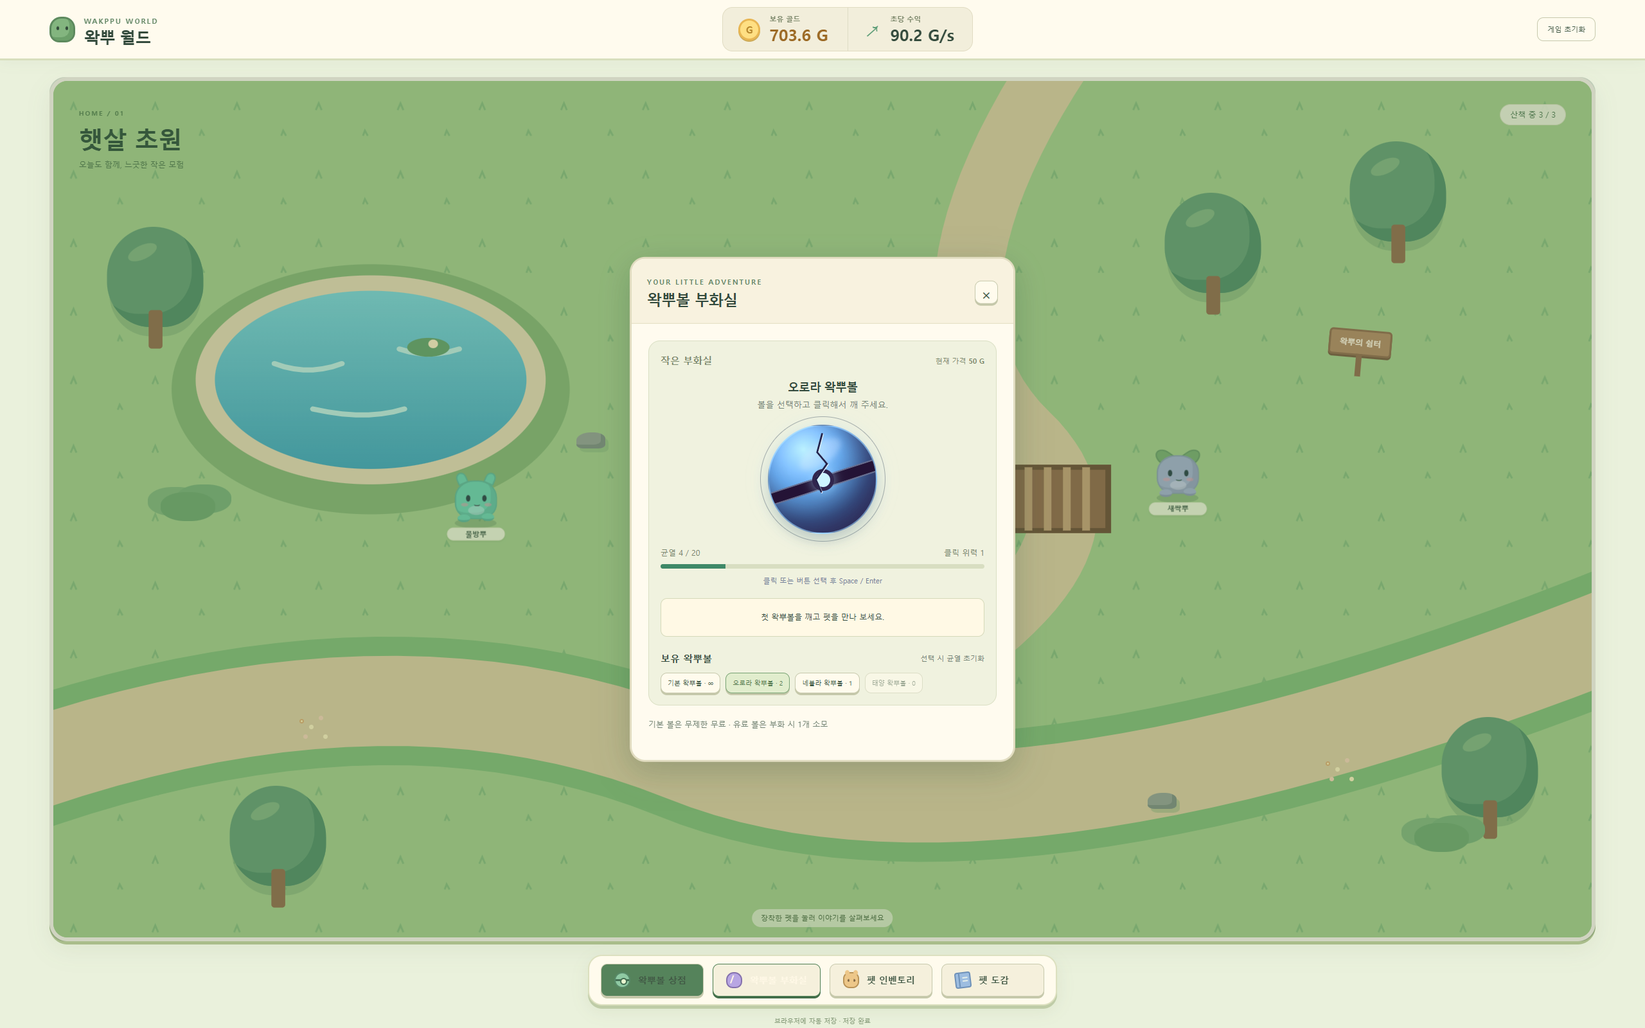
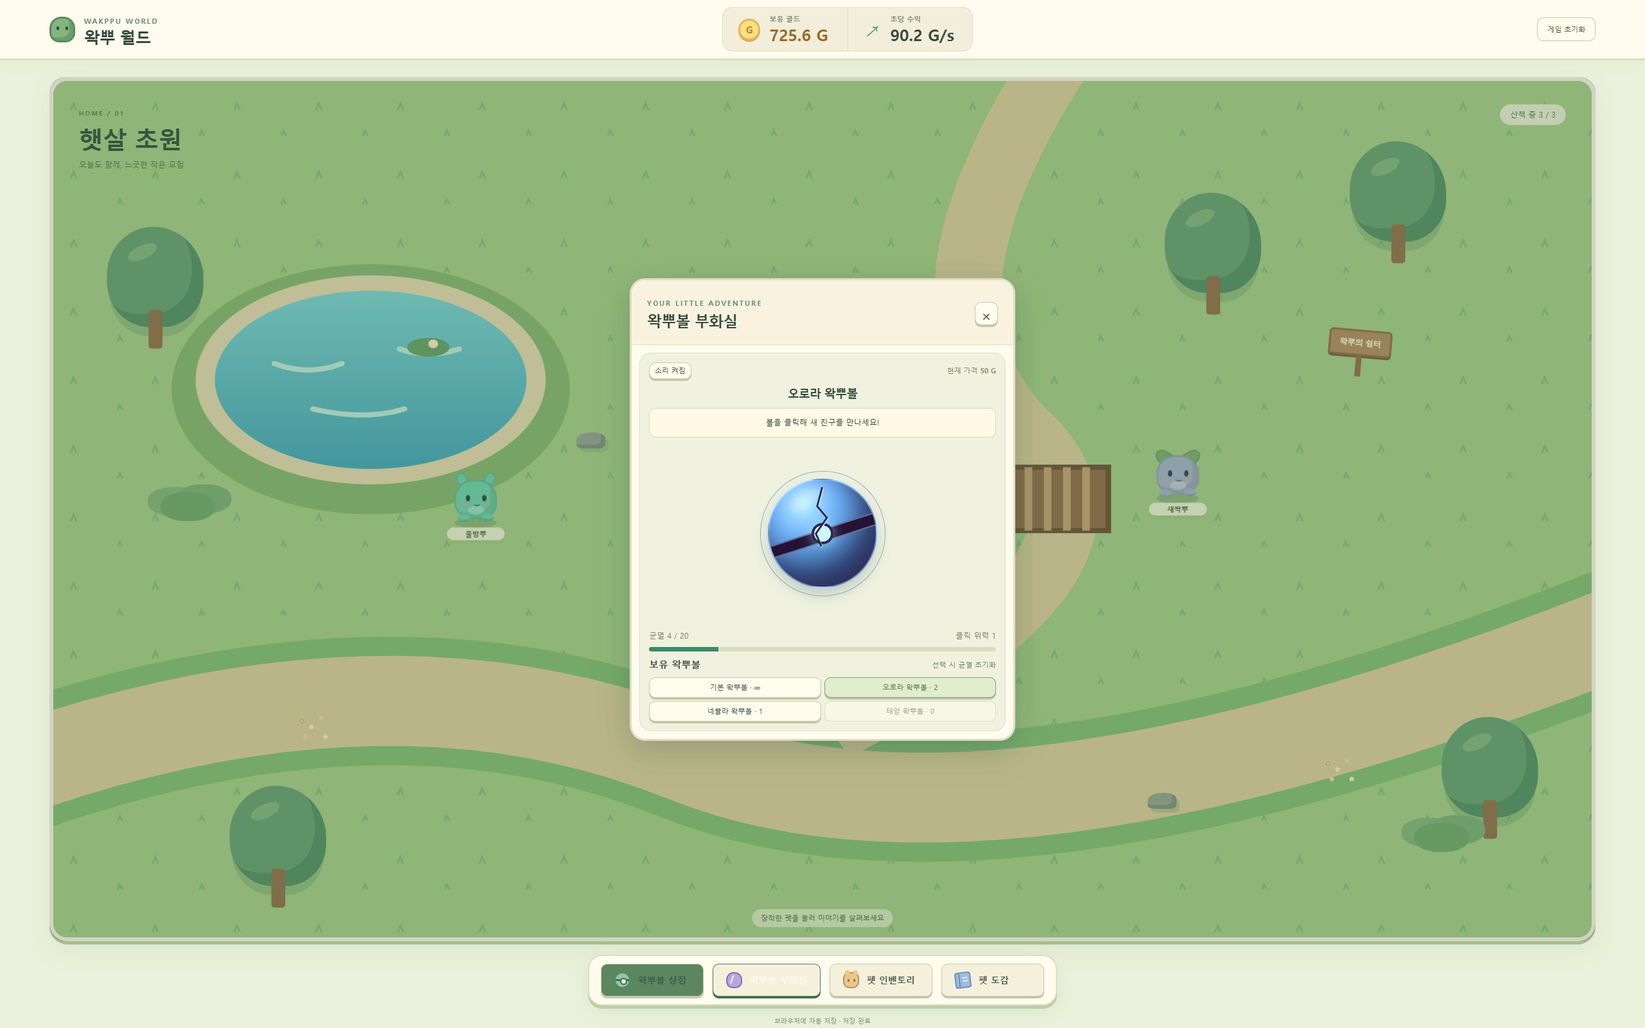
펫 자동 교체·추천 구성·방생, 한 화면 부화실과 효과음 추가

Changed region(s): [[0.375, 0.375, 0.625, 0.75], [0.375, 0.25, 0.625, 0.375], [0.5625, 0.3438, 0.5938, 0.375]]

diff --git a/game.js b/game.js
@@ -25,7 +25,7 @@ const PETS = [
 ];
 const $ = id => document.getElementById(id);
 const format = n => new Intl.NumberFormat("ko-KR", { maximumFractionDigits: 1, notation: n >= 1000000 ? "compact" : "standard" }).format(n);
-const defaults = () => ({ version: 1, gold: 0, pets: [], equipped: [], discovered: [], stock: [0, 0, 0, 0], selected: 0, cracks: 0 });
+const defaults = () => ({ version: 1, gold: 0, pets: [], equipped: [], discovered: [], stock: [0, 0, 0, 0], selected: 0, cracks: 0, soundEnabled: true });
 const integer = (v, max) => Number.isInteger(v) && v >= 0 && v <= max;
 let storageOK = true;
 
@@ -37,6 +37,7 @@ function load() {
     if (!raw) return clean;
     const data = JSON.parse(raw);
     if (!data || data.version !== 1) return clean;
+    if (typeof data.soundEnabled === "boolean") clean.soundEnabled = data.soundEnabled;
     if (Number.isFinite(data.gold) && data.gold >= 0) clean.gold = Math.min(data.gold, 1e15);
     if (Array.isArray(data.pets)) clean.pets = data.pets.filter(p => integer(p, PETS.length - 1)).slice(0, 10000);
     if (Array.isArray(data.equipped)) clean.equipped = [...new Set(data.equipped)].filter(i => integer(i, clean.pets.length - 1)).slice(0, SLOT_LIMIT);
@@ -48,6 +49,7 @@ function load() {
     return clean;
   } catch { return clean; }
 }
+const sounds = new GameSounds();
 let state = load();
 let hatching = false;
 let hatchTimer;
@@ -57,6 +59,13 @@ let lastTick = performance.now();
 function equippedPets() { return state.equipped.map(index => PETS[state.pets[index]]); }
 function income() { return equippedPets().reduce((sum, p) => sum + p.rate + p.bonus, 0); }
 function clickPower() { return 1 + equippedPets().reduce((sum, p) => sum + p.power, 0); }
+// 장착을 바꾸기 전에 이전 구성으로 벌었던 골드를 먼저 정산합니다.
+function accrueGold() {
+  const now = performance.now();
+  const elapsed = Math.min(60, Math.max(0, (now - lastTick) / 1000));
+  lastTick = now;
+  state.gold = Math.min(1e15, state.gold + income() * elapsed);
+}
 function save() {
   try { localStorage.setItem(SAVE_KEY, JSON.stringify(state)); storageOK = true; }
   catch { storageOK = false; }
@@ -64,6 +73,8 @@ function save() {
 }
 function message(text) { $("result").textContent = text; }
 function renderStats() {
+  $("sound-toggle").textContent = state.soundEnabled ? "소리 켜짐" : "소리 꺼짐";
+  $("sound-toggle").setAttribute("aria-pressed", String(state.soundEnabled));
   $("gold").textContent = `${format(state.gold)} G`;
   $("shop-gold").textContent = `${format(state.gold)} G`;
   $("income").textContent = `${format(income())} G/s`;
@@ -87,9 +98,10 @@ function petCard(petId, index, codex = false) {
   const p = PETS[petId];
   const known = !codex || state.discovered.includes(petId);
   const equipped = !codex && state.equipped.includes(index);
-  return `<article class="pet-card ${equipped ? "equipped" : ""} ${known ? "" : "unknown"}" style="--rarity:${COLORS[p.rarity]}"><div class="pet-art" aria-hidden="true"></div><span class="rarity">${RARITIES[p.rarity]}</span><h3>${known ? p.name : "???"}</h3><p class="rate">${known ? `${format(p.rate + p.bonus)} G/s` : "미발견"}</p><p>${known ? p.ability : "부화하여 비밀을 발견하세요"}</p>${codex ? "" : `<button data-equip="${index}" ${!equipped && state.equipped.length >= SLOT_LIMIT ? "disabled" : ""}>${equipped ? "장착 해제" : "장착하기"}</button>`}</article>`;
+  return `<article class="pet-card ${equipped ? "equipped" : ""} ${known ? "" : "unknown"}" style="--rarity:${COLORS[p.rarity]}"><div class="pet-art" aria-hidden="true"></div><span class="rarity">${RARITIES[p.rarity]}</span><h3>${known ? p.name : "???"}</h3><p class="rate">${known ? `${format(p.rate + p.bonus)} G/s` : "미발견"}</p><p>${known ? p.ability : "부화하여 비밀을 발견하세요"}</p>${codex ? "" : `<button data-equip="${index}" >${equipped ? "장착 해제" : state.equipped.length >= SLOT_LIMIT ? "교체 장착" : "장착하기"}</button><button data-release="${index}" class="release">방생 · +${format(p.rate + p.bonus)} G</button>`}</article>`;
 }
 function renderPets() {
+  $("recommend").disabled = state.pets.length === 0;
   $("slots").textContent = `장착 ${state.equipped.length} / ${SLOT_LIMIT}`;
   $("pet-count").textContent = `${state.pets.length}마리`;
   $("inventory").innerHTML = state.pets.length ? state.pets.map((id, i) => petCard(id, i)).join("") : '<p class="empty">아직 펫이 없어요. 첫 왁뿌볼을 깨 보세요!</p>';
@@ -114,6 +126,7 @@ function rollPet(tier) {
 function hatch() {
   // 잠금을 먼저 걸고 보상과 소모를 한 번에 저장합니다. 애니메이션은 화면 효과입니다.
   hatching = true;
+  if (state.soundEnabled) sounds.play("break");
   const petId = rollPet(state.selected);
   const p = PETS[petId];
   if (state.selected > 0) state.stock[state.selected]--;
@@ -138,6 +151,7 @@ function hatch() {
 }
 $("ball").addEventListener("click", () => {
   if (hatching || state.pets.length >= 10000) { if (!hatching) message("인벤토리 한도 10,000마리에 도달했어요."); return; }
+  if (state.soundEnabled) sounds.play("click");
   state.cracks = Math.min(BALLS[state.selected].clicks, state.cracks + clickPower());
   $("ball").classList.remove("hit");
   void $("ball").offsetWidth; // 같은 애니메이션을 다시 시작합니다.
@@ -163,14 +177,42 @@ $("shop").addEventListener("click", e => {
   save(); renderStats(); renderBall(); message(`${BALLS[tier].name} 구매 완료! 보유 왁뿌볼에서 선택하세요.`);
 });
 $("inventory").addEventListener("click", e => {
-  const button = e.target.closest("[data-equip]");
+  const button = e.target.closest("[data-equip], [data-release]");
   if (!button) return;
-  const index = Number(button.dataset.equip);
+  const release = button.hasAttribute("data-release");
+  const index = Number(release ? button.dataset.release : button.dataset.equip);
   if (!integer(index, state.pets.length - 1)) return;
-  if (state.equipped.includes(index)) state.equipped = state.equipped.filter(i => i !== index);
-  else if (state.equipped.length < SLOT_LIMIT) state.equipped.push(index);
-  else return;
+  const pet = PETS[state.pets[index]];
+  if (release && !confirm(`${pet.name}을 방생하고 ${format(pet.rate + pet.bonus)} G를 받을까요? 인벤토리에서 삭제되며 되돌릴 수 없습니다. 도감 기록은 유지됩니다.`)) return;
+  accrueGold();
+  if (release) {
+    state.gold = Math.min(1e15, state.gold + pet.rate + pet.bonus);
+    state.pets.splice(index, 1);
+    // 삭제된 번호 뒤의 펫 번호를 한 칸 당깁니다. 발견 기록은 지우지 않습니다.
+    state.equipped = state.equipped.filter(i => i !== index).map(i => i > index ? i - 1 : i);
+    world.clear(); selectedWorldPet = null; $("pet-info").hidden = true;
+    $("inventory-notice").textContent = `${pet.name} 방생 완료 · +${format(pet.rate + pet.bonus)} G`;
+  } else if (state.equipped.includes(index)) state.equipped = state.equipped.filter(i => i !== index);
+  else {
+    // 배열 마지막이 가장 최근에 장착한 펫입니다. 기존 저장 순서도 그대로 사용합니다.
+    if (state.equipped.length >= SLOT_LIMIT) state.equipped.pop();
+    state.equipped.push(index);
+    $("inventory-notice").textContent = `${pet.name} 장착 완료`;
+  }
   save(); render();
+});
+$("recommend").addEventListener("click", () => {
+  accrueGold();
+  state.equipped = state.pets.map((id, index) => ({ pet: PETS[id], index }))
+    .sort((a, b) => b.pet.rarity - a.pet.rarity || (b.pet.rate + b.pet.bonus) - (a.pet.rate + a.pet.bonus) || a.index - b.index)
+    .slice(0, SLOT_LIMIT).map(item => item.index);
+  $("inventory-notice").textContent = "높은 등급 우선 · 같은 등급은 높은 초당 수익 순으로 장착했어요.";
+  save(); render();
+});
+$("sound-toggle").addEventListener("click", () => {
+  state.soundEnabled = !state.soundEnabled;
+  if (state.soundEnabled) sounds.play("click");
+  save(); renderStats();
 });
 $("reset").addEventListener("click", () => {
   if (!confirm("골드, 펫, 도감, 구매 기록을 모두 초기화할까요? 이 작업은 되돌릴 수 없습니다.")) return;
@@ -180,9 +222,7 @@ $("reset").addEventListener("click", () => {
 });
 // 실제 경과 시간으로 생산합니다. 백그라운드 수익은 틱당 최대 60초이며 오프라인 수익은 없습니다.
 setInterval(() => {
-  const now = performance.now();
-  const elapsed = Math.min(60, Math.max(0, (now - lastTick) / 1000)); lastTick = now;
-  state.gold = Math.min(1e15, state.gold + income() * elapsed);
+  accrueGold();
   renderStats();
 }, 250);
 setInterval(save, 2000);
@@ -196,6 +236,7 @@ let menuTrigger = null;
 function openMenu(id, trigger) {
   if (!menuTitles[id]) return;
   activeMenu = id;
+  $("menu-panel").dataset.page = id;
   menuTrigger = document.querySelector(`.world-nav [data-menu="${id}"]`) || trigger || menuTrigger;
   $("menu-panel").hidden = false;
   $("menu-backdrop").hidden = false;

diff --git a/index.html b/index.html
@@ -1,6 +1,6 @@
 <!DOCTYPE html>
 <html lang="ko">
-<head><meta charset="UTF-8"><meta name="viewport" content="width=device-width, initial-scale=1"><title>왁뿌볼 · 펫 월드</title><link rel="stylesheet" href="style.css"><script src="world.js" defer></script><script src="game.js" defer></script></head>
+<head><meta charset="UTF-8"><meta name="viewport" content="width=device-width, initial-scale=1"><title>왁뿌볼 · 펫 월드</title><link rel="stylesheet" href="style.css"><script src="world.js" defer></script><script src="sound.js" defer></script><script src="game.js" defer></script></head>
 <body class="world-game">
 <header class="world-header"><div class="brand"><span class="brand-mark" aria-hidden="true"></span><div><span class="eyebrow">WAKPPU WORLD</span><h1>왁뿌 월드</h1></div></div><div class="wallet" aria-label="게임 현황"><div><span class="coin" aria-hidden="true">G</span><div><span>보유 골드</span><strong id="gold">0 G</strong></div></div><div><span class="income-icon" aria-hidden="true">↗</span><div><span>초당 수익</span><strong id="income">0 G/s</strong></div></div></div><button id="reset" class="quiet">게임 초기화</button></header>
 <main class="world-layout">
@@ -13,8 +13,8 @@
 <button id="menu-backdrop" class="menu-backdrop" aria-label="메뉴 닫기" tabindex="-1" hidden></button>
 <aside role="dialog" aria-labelledby="menu-title" id="menu-panel" class="menu-panel" aria-label="펫 관리 메뉴" hidden><header class="menu-heading"><div><span class="eyebrow">YOUR LITTLE ADVENTURE</span><h2 id="menu-title">왁뿌볼 상점</h2></div><button id="close-menu" aria-label="메뉴 닫기">×</button></header><div class="menu-content">
 <section id="shop-panel" class="menu-page" hidden><p class="muted">새로운 친구와의 만남을 준비해요.</p><p class="shop-wallet">사용 가능한 골드 <strong id="shop-gold">0 G</strong></p><div id="shop"></div><details><summary>볼별 희귀도 확률 보기</summary><div id="odds"></div></details><p class="shop-note">구매한 볼은 부화실에서 선택해 깨뜨릴 수 있어요.</p><button data-menu="hatch-panel">부화실로 가기</button></section>
-<section id="hatch-panel" class="menu-page" hidden><section class="arena hatch-room"><div class="section-head"><h3>작은 부화실</h3><span>현재 가격 <strong id="price">무료</strong></span></div><h2 id="ball-name">기본 왁뿌볼</h2><p class="muted">볼을 선택하고 클릭해서 깨 주세요.</p><div class="ball-stage"><div class="orbit orbit-one"></div><button id="ball" class="ball" aria-label="왁뿌볼 클릭하여 깨기"><span class="ball-shine"></span><span class="ball-band"></span><span class="ball-core"></span><svg class="cracks" viewBox="0 0 240 240" aria-hidden="true"><path class="crack c1" d="M119 18 108 59 130 85 105 121 117 148"/><path class="crack c2" d="m108 59-34 9-16 27M105 121l-46 9-29 35"/><path class="crack c3" d="m130 85 45-18 33 24M117 148l39 23 17 43"/><path class="crack c4" d="m117 148-28 37 15 42M156 171l48-7 23 21"/></svg></button><div id="burst" class="burst" aria-hidden="true"></div></div><div class="progress-copy"><span id="click-label">균열 0 / 12</span><span id="power">클릭 위력 1</span></div><progress id="progress" value="0" max="12" aria-label="균열 진행도"></progress><p class="hint">클릭 또는 버튼 선택 후 Space / Enter</p><div id="result" class="result" role="status" aria-live="polite">첫 왁뿌볼을 깨고 펫을 만나 보세요.</div><div class="queue-head"><h3>보유 왁뿌볼</h3><span class="muted">선택 시 균열 초기화</span></div><div id="queue" class="queue"></div></section><p class="shop-note">기본 볼은 무제한 무료 · 유료 볼은 부화 시 1개 소모</p></section>
-<section id="inventory-panel" class="menu-page" hidden><div class="section-head"><h3>나의 친구들 <small id="pet-count">0마리</small></h3><span id="slots" class="badge">장착 0 / 3</span></div><p class="muted">최대 3마리를 장착하면 초원에서 산책하며 골드를 벌어요.</p><div id="inventory" class="pet-grid"></div></section>
+<section id="hatch-panel" class="menu-page" hidden><section class="arena hatch-room"><div class="section-head"><button id="sound-toggle" aria-pressed="true">소리 켜짐</button><span>현재 가격 <strong id="price">무료</strong></span></div><h2 id="ball-name">기본 왁뿌볼</h2><div id="result" class="result" role="status" aria-live="polite">볼을 클릭해 새 친구를 만나세요!</div><div class="ball-stage"><div class="orbit orbit-one"></div><button id="ball" class="ball" aria-label="왁뿌볼 클릭하여 깨기"><span class="ball-shine"></span><span class="ball-band"></span><span class="ball-core"></span><svg class="cracks" viewBox="0 0 240 240" aria-hidden="true"><path class="crack c1" d="M119 18 108 59 130 85 105 121 117 148"/><path class="crack c2" d="m108 59-34 9-16 27M105 121l-46 9-29 35"/><path class="crack c3" d="m130 85 45-18 33 24M117 148l39 23 17 43"/><path class="crack c4" d="m117 148-28 37 15 42M156 171l48-7 23 21"/></svg></button><div id="burst" class="burst" aria-hidden="true"></div></div><div class="progress-copy"><span id="click-label">균열 0 / 12</span><span id="power">클릭 위력 1</span></div><progress id="progress" value="0" max="12" aria-label="균열 진행도"></progress><div class="queue-head"><h3>보유 왁뿌볼</h3><span class="muted">선택 시 균열 초기화</span></div><div id="queue" class="queue"></div></section></section>
+<section id="inventory-panel" class="menu-page" hidden><div class="section-head"><h3>나의 친구들 <small id="pet-count">0마리</small></h3><span id="slots" class="badge">장착 0 / 3</span></div><div class="inventory-tools"><button id="recommend">추천 구성</button><p class="muted">높은 등급 우선 · 최대 3마리</p></div><p id="inventory-notice" class="muted" role="status">슬롯이 가득 차면 가장 최근에 장착한 친구를 교체해요.</p><div id="inventory" class="pet-grid"></div></section>
 <section id="codex-panel" class="menu-page" hidden><div class="section-head"><h3>만남의 기록</h3><span id="discovered" class="badge">0 / 10</span></div><p class="muted">한 번 만난 친구는 언제나 도감에 남아요.</p><div id="codex" class="pet-grid codex"></div></section></div></aside></main>
 <nav class="world-nav" aria-label="게임 메뉴"><button data-menu="shop-panel" aria-controls="shop-panel" aria-expanded="false"><span class="nav-icon icon-ball" aria-hidden="true"></span>왁뿌볼 상점</button><button data-menu="hatch-panel" aria-controls="hatch-panel" aria-expanded="false"><span class="nav-icon icon-hatch" aria-hidden="true"></span>왁뿌볼 부화실</button><button data-menu="inventory-panel" aria-controls="inventory-panel" aria-expanded="false"><span class="nav-icon icon-pet" aria-hidden="true"></span>펫 인벤토리</button><button data-menu="codex-panel" aria-controls="codex-panel" aria-expanded="false"><span class="nav-icon icon-book" aria-hidden="true"></span>펫 도감</button></nav><div id="save-status" class="world-save" role="status">브라우저에 자동 저장</div>
 </body></html>

diff --git a/style.css b/style.css
@@ -26,3 +26,36 @@
 .icon-hatch:after{content:'';position:absolute;inset:4px 6px;border-left:2px solid #fff6e6;transform:rotate(20deg)}
 @media(max-width:700px){#menu-panel{width:calc(100% - 16px);max-height:94%;border-radius:18px}.world-nav button{font-size:9px}.menu-backdrop{border-radius:18px}}
 #menu-backdrop,#menu-backdrop:hover:not(:disabled){background:#28493638;border:0;box-shadow:none}
+/* 부화 결과와 볼 선택은 스크롤 없이 함께 표시합니다. */
+#menu-panel[data-page="hatch-panel"]{height:min(720px,94%)}
+#menu-panel[data-page="hatch-panel"] .menu-content{flex:1;overflow:hidden;padding:12px;display:flex}
+#hatch-panel:not([hidden]){width:100%;min-height:0;display:flex}
+#hatch-panel .hatch-room{width:100%;min-height:0;display:flex;flex-direction:column;gap:8px;padding:14px}
+.hatch-room>*{flex-shrink:0}
+#hatch-panel h2{margin:0;font-size:18px}
+#hatch-panel .result{min-height:46px;padding:8px;line-height:1.4}
+#hatch-panel .ball-stage{flex:1;min-height:60px;height:auto;container-type:size}
+#hatch-panel .ball{width:min(170px,80cqh);height:min(170px,80cqh)}
+#hatch-panel .ball-band{top:46%;height:12%}
+#hatch-panel .ball-core{top:40%;left:40%;width:20%;height:20%;border-width:4px}
+#hatch-panel .ball-shine{top:12%;left:18%;width:32%;height:14%}
+#hatch-panel .orbit{width:min(195px,95cqh);height:min(195px,95cqh)}
+#hatch-panel progress{margin:0}
+#hatch-panel .queue-head{margin:0}
+#hatch-panel .queue{display:grid;grid-template-columns:repeat(2,minmax(0,1fr));gap:5px}
+#hatch-panel .queue button{padding:6px 3px;font-size:11px}
+#sound-toggle{padding:3px 8px;font-size:11px}
+.inventory-tools{display:flex;align-items:center;gap:12px;margin:14px 0 8px}
+#inventory-notice{font-size:12px;min-height:20px}
+.pet-card .release{display:block;width:100%;margin-top:6px;font-size:11px;color:#a06548}
+@media(max-height:700px){
+ #menu-panel[data-page="hatch-panel"] .menu-heading{padding:6px 12px}
+ #menu-panel[data-page="hatch-panel"] .menu-heading .eyebrow{display:none}
+ #menu-panel[data-page="hatch-panel"] .menu-content{padding:6px}
+ #hatch-panel .hatch-room{padding:8px;gap:4px}
+ #hatch-panel .result{min-height:30px;padding:4px;font-size:11px}
+ #hatch-panel h2{font-size:14px}
+ #hatch-panel .queue button{font-size:10px;padding:3px}
+ #hatch-panel .queue-head h3{font-size:11px}
+ #hatch-panel .ball-stage{min-height:35px}
+}

diff --git a/sound.js b/sound.js
@@ -1,0 +1,32 @@
+"use strict";
+
+// 외부 음원 없이 짧은 타격음과 부화음을 만듭니다. 클릭 시에만 오디오를 시작합니다.
+class GameSounds {
+  constructor() { this.context = null; }
+  play(kind) {
+    try {
+      const Audio = window.AudioContext || window.webkitAudioContext;
+      if (!Audio) return;
+      this.context ||= new Audio();
+      const context = this.context;
+      if (context.state === "suspended") context.resume().catch(() => {});
+      const start = context.currentTime;
+      const tone = (frequency, offset, duration, volume, type = "sine") => {
+        const oscillator = context.createOscillator(), gain = context.createGain();
+        oscillator.type = type;
+        oscillator.frequency.setValueAtTime(frequency, start + offset);
+        oscillator.frequency.exponentialRampToValueAtTime(frequency * .55, start + offset + duration);
+        gain.gain.setValueAtTime(volume, start + offset);
+        gain.gain.exponentialRampToValueAtTime(.0001, start + offset + duration);
+        oscillator.connect(gain); gain.connect(context.destination);
+        oscillator.start(start + offset); oscillator.stop(start + offset + duration);
+        oscillator.onended = () => { oscillator.disconnect(); gain.disconnect(); };
+      };
+      if (kind === "click") tone(540, 0, .09, .055, "triangle");
+      else {
+        tone(130, 0, .18, .08, "triangle");
+        [660, 880, 1320].forEach((frequency, i) => tone(frequency, .06 + i * .08, .26, .045));
+      }
+    } catch { /* 소리 재생이 불가능해도 게임은 계속됩니다. */ }
+  }
+}

diff --git a/world.js b/world.js
@@ -37,6 +37,11 @@ class PetWorld {
     document.getElementById("world-empty").hidden = pets.length > 0;
     document.getElementById("world-count").textContent = `산책 중 ${pets.length} / 3`;
   }
+  // 방생으로 인벤토리 번호가 바뀌면 캐릭터를 다시 연결합니다.
+  clear() {
+    for (const actor of this.actors.values()) actor.element.remove();
+    this.actors.clear();
+  }
   resize() {
     const width = this.map.clientWidth, height = this.map.clientHeight;
     const scaleX = width / Math.max(1, this.width), scaleY = height / Math.max(1, this.height);

diff --git a/TEST_RESULTS.md b/TEST_RESULTS.md
@@ -53,3 +53,18 @@
 - 상점에서는 부화 버튼이 숨겨지고, 부화실에서는 구매 목록이 숨겨집니다.
 - 팝업 바깥 배경을 클릭하면 메뉴가 닫힙니다.
 - 분리 후에도 구매, 볼 선택·파괴, 펫 지급, 저장, 장착·수익의 Chrome 회귀 검사를 모두 통과했습니다.
+
+## 장착·추천·방생·사운드 개편 검사 (2026-10-10)
+
+로컬 Chrome 회귀 검사 전체를 다시 실행해 종료 코드 0을 확인했습니다.
+
+- 슬롯 3개가 가득 차면 최근 장착 펫만 교체하며 새로고침 후에도 순서 유지
+- 추천 구성: 희귀도 우선, 동급은 실제 생산량 우선, 중복 종류도 별도 장착
+- 빈 인벤토리에서는 추천 버튼 비활성화
+- 방생 취소 시 소유 유지, 확인 시 정확한 보상 지급 및 삭제
+- 장착 펫 방생 시 수익 변경, 남은 인벤토리 번호 재연결, 월드의 이름과 실제 펫 일치
+- 방생 후 도감과 남은 장착 상태의 새로고침 유지
+- 클릭 오디오 컨텍스트 실행, 파괴 소리 단일 호출, 음소거 시 호출 없음, 소리 설정 저장
+- 긴 부화 결과에서도 2560×1600, 1000×700, 390×844, 320×568 화면의 결과·볼·진행도·보유 볼이 팝업 안에 표시되고 내부 스크롤 없음
+
+부화실 PC·모바일 화면을 직접 확인했습니다. 소리는 헤드리스 브라우저에서 오디오 노드 실행을 검사했으며 실제 스피커로 청취한 것은 아닙니다.

diff --git a/DEPLOYMENT.md b/DEPLOYMENT.md
@@ -4,7 +4,7 @@
 - 게임 주소: https://gamjadough.github.io/wakppu-pet-world/
 - 게시 설정: `main` 브랜치의 루트(`/`) 폴더
 
-이 게임은 빌드 없이 배포할 수 있는 정적 웹 게임입니다. `index.html`, `style.css`, `game.js`, `world.js`를 같은 배포 폴더에 둡니다. `.nojekyll`은 GitHub Pages에서 Jekyll 처리를 생략하게 합니다.
+이 게임은 빌드 없이 배포할 수 있는 정적 웹 게임입니다. `index.html`, `style.css`, `game.js`, `world.js`, `sound.js`를 같은 배포 폴더에 둡니다. `.nojekyll`은 GitHub Pages에서 Jekyll 처리를 생략하게 합니다.
 
 GitHub Pages 주소에서 플레이하면 브라우저의 해당 사이트 저장소에 진행 상황이 저장됩니다. 로컬 파일의 저장 데이터는 배포 주소로 자동 이동하지 않습니다. 게임 저장 형식과 키(`wakppu-v01`)는 유지합니다.
 
